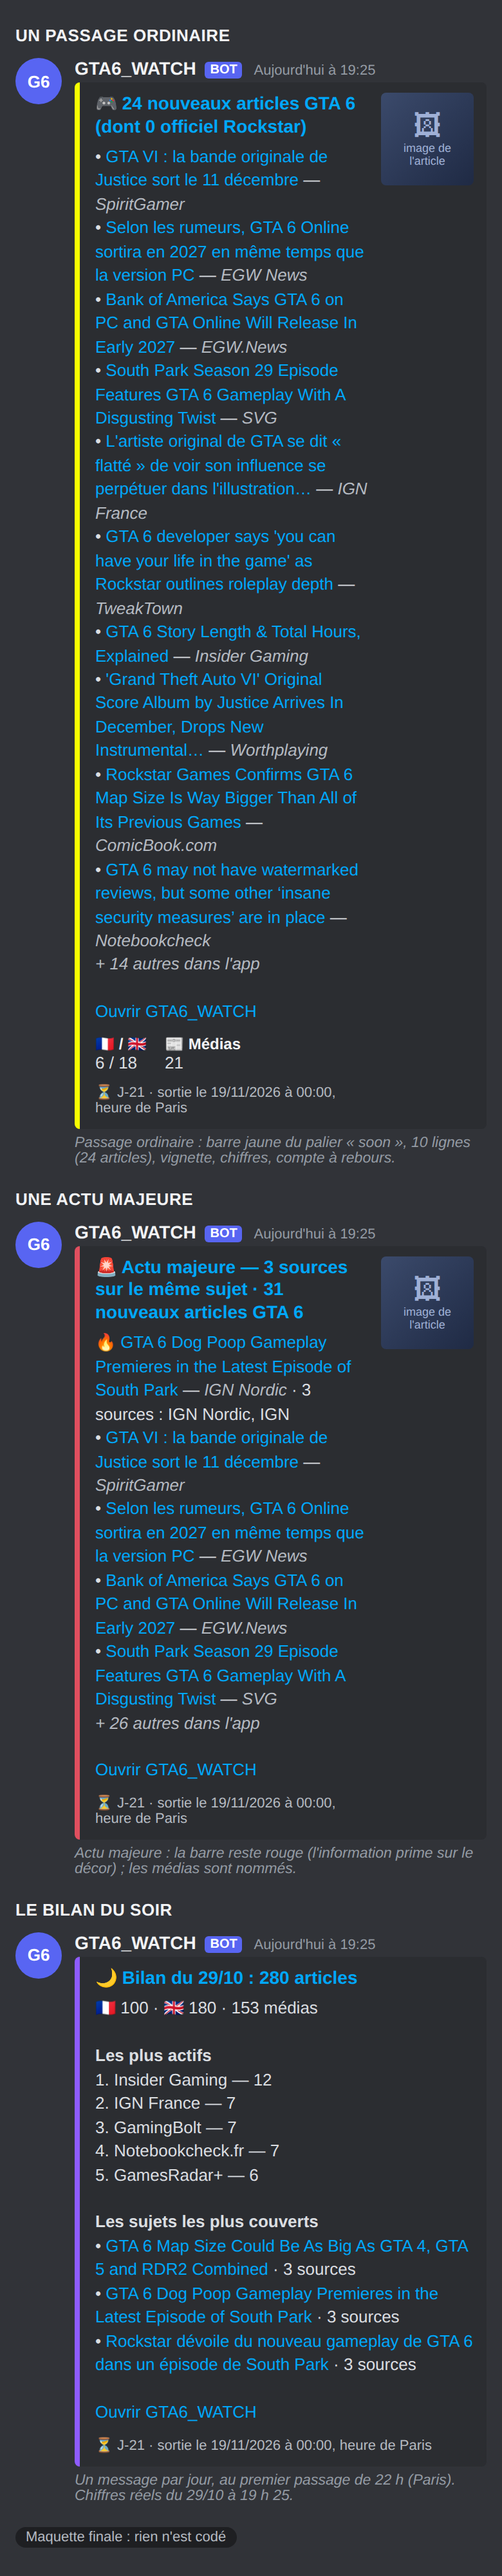
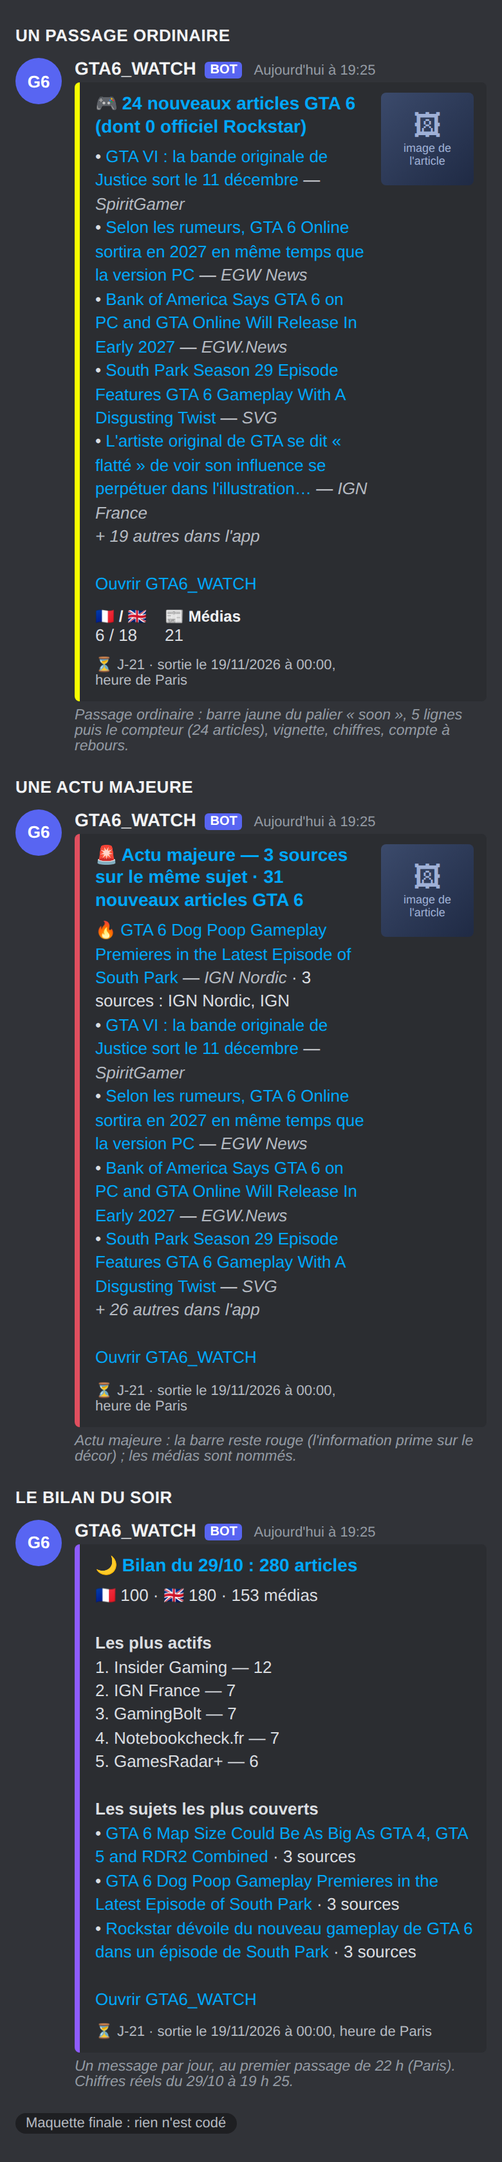
Spec Discord : 5 liens max plus un compteur, partout
Demande d'Antoni : le récapitulatif reste à 5 lignes (idée 4 retirée) et les annonces
officielles passent à 5 alertes détaillées puis une carte de 5 liens et un compteur
(rafale du 08/10 : 6 messages au lieu de 11). Point à trancher : l'ordre des 5, car 28
des 32 officiels de ce jour étaient des produits de la boutique.

Claude-Session: https://claude.ai/code/session_01DqaCi1a9z33GCLfRvxZycB

diff --git a/tasks/spec-discord-notification.md b/tasks/spec-discord-notification.md
@@ -2,8 +2,8 @@
 
 Statut : **proposition, rien n'est codé.** Écrite le 29/10/2026 à la demande
 d'Antoni (« Améliorer la notification Discord, propose 7 idées, ne code pas »), puis
-réduite à six idées par son choix : **1, 2, 3, 4, 5 et 7** (l'idée 6, le rappel
-d'agenda, est écartée). Visuel final : `tasks/spec-discord-notification-final.png`.
+réduite à son choix : **1, 2, 3, 5 et 7** (l'idée 6, le rappel d'agenda, est écartée ;
+l'idée 4, plus de lignes, a été retirée le même jour). Visuel final : `tasks/spec-discord-notification-final.png`.
 La section « Les annonces officielles » (plus bas) a été ajoutée le même jour, après
 son choix : grande image, vrai type, heure et pied, mesure du retard, fusion EN/FR.
 Heures de Paris (UTC+1 depuis le 25/10).
@@ -27,7 +27,7 @@ couleurs reprennent pourtant des règles de l'app (voir 2).
 - Un article d'aperçu ne garde que six champs (`apercu_de`) : titre, lien, source,
   officiel, **nombre** de sources, date.
 
-## Les six changements
+## Les changements du récapitulatif
 
 ### 1 · La vignette de l'article phare
 Un `thumbnail` (petite image à droite) sur le récapitulatif, celle de la **première
@@ -79,14 +79,11 @@ français et 180 en anglais sur 280 ; 153 médias distincts.
 - « Médias » n'est un compte de **distincts** que sur un passage ordinaire. Le
   récapitulatif du matin additionne la nuit : on n'y affiche pas ce champ.
 
-### 4 · Plus de lignes quand le passage est gros
-Au lieu de 5 fixes : 5 lignes sous 10 articles, 7 de 10 à 19, **10** à partir de 20.
-Mesuré : le pire cas de 10 lignes fait 3 195 caractères, et le titre (256 au plus),
-les champs et le pied restent loin des 6 000 caractères que Discord accepte pour
-l'ensemble d'un embed. `apercus_recap` et le stockage de nuit doivent suivre le même
-plafond.
-
-**Cela rouvre ton choix du 22/09 (« les 5 derniers »)** : à valider explicitement.
+### 4 · ~~Plus de lignes quand le passage est gros~~ — RETIRÉE
+Décision d'Antoni (29/10/2026) : **le récapitulatif reste à 5 lignes, puis le compteur**
+« + N autres dans l'app ». Rien à changer. Mesuré à titre de mémoire : les passages du
+29/10 comptaient 9 à 31 articles, donc 5 lignes en montrent 16 % à 56 % ; dix lignes au
+pire font 3 195 caractères, mais ce n'est plus l'objet.
 
 ### 5 · Un sujet majeur, ses médias nommés
 Sur une ligne 🔥, citer les médias : « — *IGN Nordic* · 3 sources : IGN Nordic, IGN ».
@@ -207,18 +204,45 @@ anglais » et les deux liens. Si l'une arrive à un passage et l'autre à un aut
 retient rien : une alerte déjà partie ne se rattrape pas. À mesurer au passage : la part
 de doublons qui tombent dans le même passage.
 
+### O6 · Au plus 5 alertes détaillées, puis une carte de 5 liens et un compteur
+Décision d'Antoni (29/10/2026) : « 5 liens max plus un compteur pour les autres
+articles », pour le récapitulatif **et** pour les annonces officielles.
+
+![Rafale du 08/10](spec-discord-rafale.png)
+
+- **Aujourd'hui** : jusqu'à 10 alertes détaillées (`NOTIFS_OFFICIELLES_MAX`), puis une
+  carte qui liste les suivantes dans la limite de 3 800 caractères. Le 08/10, 32
+  officiels = 10 messages + 1 carte.
+- **Demain** : 5 alertes détaillées, puis **une carte de 5 liens** et « + N autres
+  annonces officielles, toutes dans l'app ». Le 08/10 : 5 + 5 liens + 22 = 32, soit
+  **6 messages au lieu de 11**.
+- Le plafond `NOTIFS_OFFICIELLES_MAX` est **partagé avec le push**
+  (`push_notify.py`, ligne 478) : le passer à 5 le change aussi pour lui, ce qui est
+  voulu, le push étant désactivé depuis le 29/10. Le README cite ce plafond et un test
+  l'éprouve : les deux sont à mettre à jour avec lui.
+- **Le risque que je vois, et sur lequel j'ai besoin d'un avis.** Le 08/10, 28 des 32
+  officiels étaient des produits de la boutique et 4 de vraies annonces. Selon l'ordre
+  retenu pour les 5 premiers, les 4 annonces sont rangées 1, 3, 5 et 6 (par date
+  croissante : trois d'entre elles dans les 5 premières) ou **27, 28, 30 et 32** (par
+  date décroissante : toutes cachées dans le compteur). Je n'ai pas relevé l'ordre exact
+  dans lequel le robot les range. Règle proposée : **les annonces non-boutique d'abord,
+  puis la boutique**, chacune par date ; une rafale de marchandises ne doit jamais
+  masquer une annonce.
+- Cette carte et le plafond de 5 s'appliquent aussi à la carte groupée du push.
+
 **Décisions à prendre par Antoni (officiels).**
 6. Boutique Rockstar : alerte « officiel » complète, carte plus discrète, ou aucune ?
 7. Fusion EN/FR : la langue du titre fusionné (français comme dans l'app) ?
 8. Après combien d'alertes mesurées veut-on relire le retard (dix ?) ?
+9. Rafale : les annonces non-boutique d'abord, puis la boutique, pour choisir les 5
+   alertes détaillées (règle proposée en O6) ?
 
 ## Décisions à prendre par Antoni
 
 1. Vignette : pour tous, pour les seuls officiels, ou avec une liste de spoilers côté
    Python ? (1)
 2. Après la sortie : un pied « sorti depuis N jours », ou rien ? (2)
-3. Plafond de lignes : 5 / 7 / 10 selon le volume, contre les « 5 derniers » du
-   22/09 ? (4)
+3. ~~Plafond de lignes~~ : tranché le 29/10, le récapitulatif reste à 5 lignes + compteur.
 4. Mesurer les médias distincts derrière les « 3 sources » avant de nommer quoi que
    ce soit ? (5)
 5. Bilan du soir : un message de plus par jour, conservé après la sortie ? (7)
@@ -231,11 +255,16 @@ de doublons qui tombent dans le même passage.
   Paris et au passage à l'heure d'hiver ; rouge conservé pour l'actu majeure.
 - 3 : langue comptée, y compris à travers la pause nocturne ; « Médias » absent du
   récapitulatif du matin.
-- 4 : le plafond suit le volume ; l'embed entier reste sous 6 000 caractères avec dix
-  lignes de 343 caractères, vignette, champs et pied.
+- 4 : retirée. Un contrôle garde néanmoins le plafond du récapitulatif à 5 lignes avec
+  son compteur, et l'embed entier sous 6 000 caractères avec cinq lignes de 343
+  caractères, vignette, champs et pied.
 - 5 : aucun nom « Google News… » affiché ; noms échappés ; trois noms au plus.
 - 7 : un seul bilan par jour civil à Paris, même avec deux passages après 22 h ; aucun
   bilan avant 22 h ; heures testées des deux côtés du changement d'heure.
+- O6 : au plus 5 alertes détaillées, puis une carte de 5 liens au plus et le compteur
+  exact (détaillées + liens + compteur = total, au passage de 0, 5, 6, 11 et 32
+  officiels) ; les annonces non-boutique passent avant la boutique ; le plafond
+  vaut pour Discord et pour le push.
 - Officiels : l'embed porte l'image seulement si elle est valide ; le libellé vient du
   domaine du lien et jamais du nom du flux ; un domaine inconnu retombe sur le
   libellé générique ; deux alertes au même identifiant d'article, dans le même passage,

diff --git a/README.md b/README.md
@@ -9788,3 +9788,12 @@ officiels, dont **32 sont des produits de la boutique** (28 le seul 08/10) ; 77 
 image ; 30 portent un identifiant d'article du Newswire, et **10 des 14 identifiants
 existent en anglais et en français**, donc des alertes en double. Le retard réel
 (publication contre alerte) n'est pas mesuré : la spec le propose d'abord.
+
+Mise à jour du 29/10/2026 : « 5 liens max plus un compteur ». Le récapitulatif reste à 5
+lignes (idée 4 retirée). Les annonces officielles passent de 10 alertes détaillées à 5,
+puis une carte de 5 liens et un compteur : la rafale du 08/10 (32 officiels) donnerait 6
+messages au lieu de 11. Le plafond est partagé avec le push. Point d'attention mesuré :
+28 des 32 officiels de ce jour étaient des produits de la boutique ; selon l'ordre
+retenu, les 4 vraies annonces seraient visibles ou cachées dans le compteur (rangs 1, 3,
+5 et 6 contre 27, 28, 30 et 32).
+

diff --git a/RESTE-A-FAIRE.md b/RESTE-A-FAIRE.md
@@ -1848,3 +1848,9 @@ l'attendent (liste dans la spec), dont une mesure à faire avant de nommer les s
 La spec couvre aussi les annonces officielles (grande image, vrai type, heure et pied,
 mesure du retard, fusion EN/FR) : trois décisions de plus, dont le sort des fiches de la
 boutique (32 officiels sur 85, 28 le seul 08/10).
+
+Mise à jour du 29/10/2026 : Antoni demande « 5 liens max plus un compteur » pour le
+récapitulatif (déjà le cas : l'idée 4, plus de lignes, est retirée) et pour les annonces
+officielles (5 alertes détaillées puis une carte de 5 liens et un compteur : 6 messages
+au lieu de 11 pour la rafale du 08/10). Décision restante : l'ordre des 5, pour qu'une
+rafale de boutique ne masque pas une annonce.
